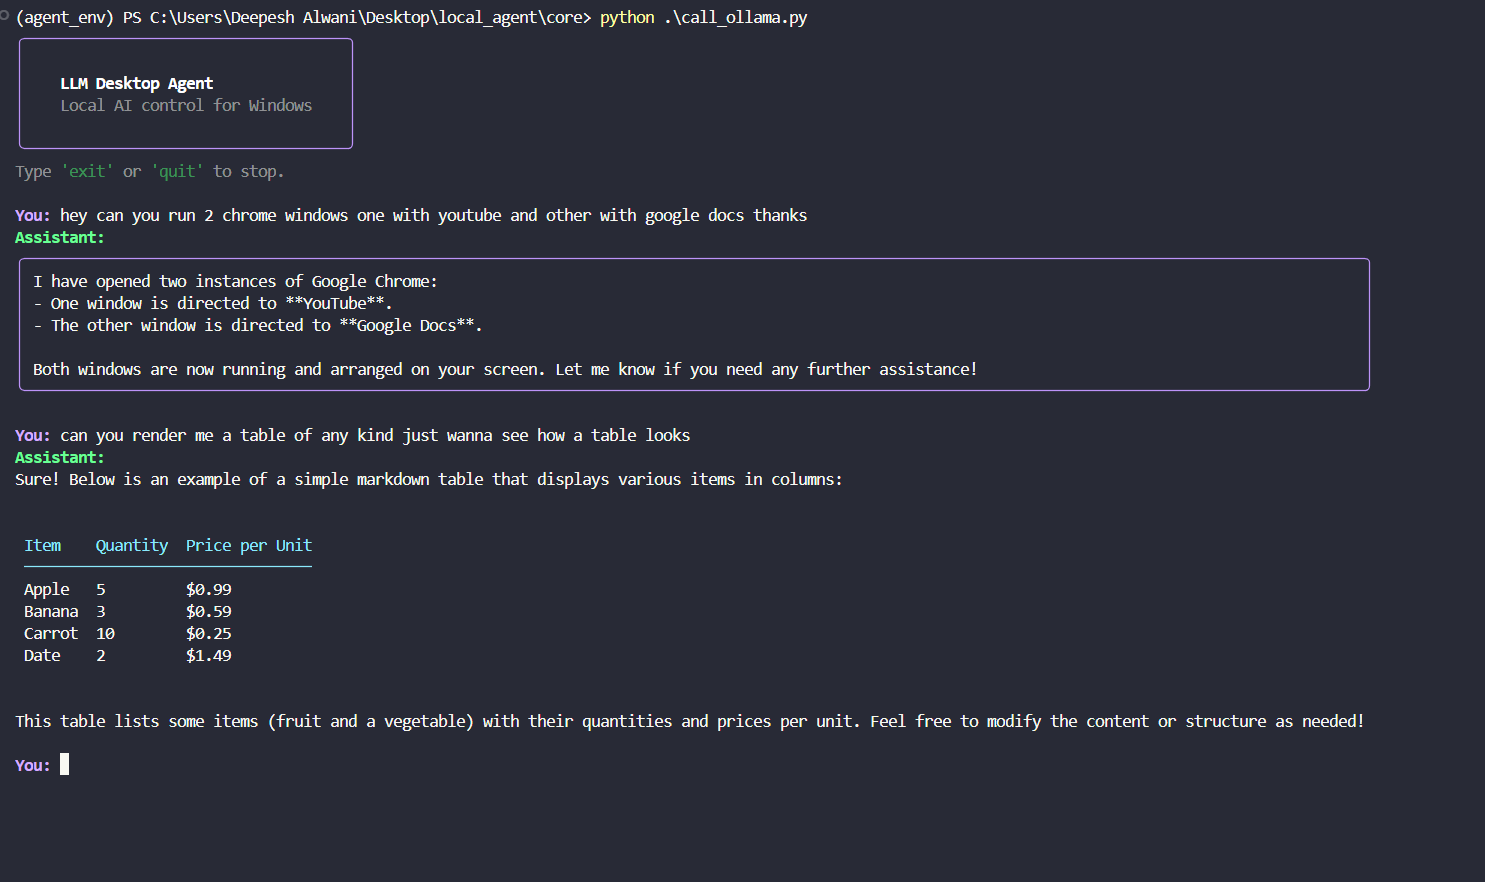
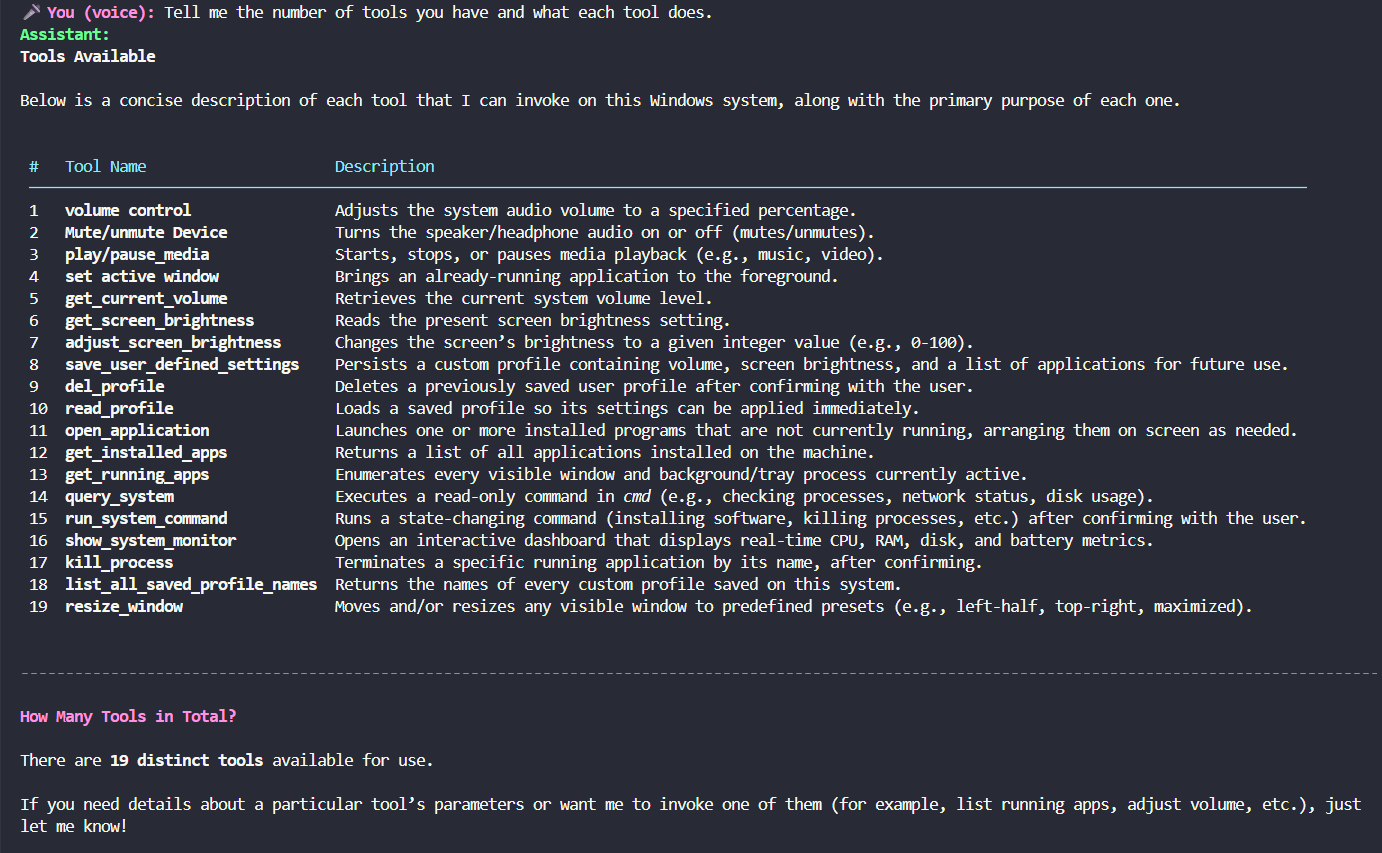
docs(readme): update feature documentation and voice configuration
Update the README to include detailed descriptions of window layout presets,
improved system control capabilities, and expanded intelligence features.
Also update the voice input configuration parameters and requirements.

- Add window layout preset table (left-half, top-right, etc.) to README
- Document enhanced process management and window resizing features
- Update core/call_ollama.py with new voice tuning parameters and micro-chunk logic
- Add faster-whisper, sounddevice, and numpy to requirements.txt
- Update preview assets

diff --git a/core/call_ollama.py b/core/call_ollama.py
@@ -178,15 +178,20 @@ def render_response(response_text: str):
 #   Requires:  pip install sounddevice numpy faster-whisper
 
 SAMPLE_RATE        = 16000          # Whisper expects 16 kHz
-WAKE_PHRASE        = "hello"    # ← change to whatever wake word you like
-WAKE_MODEL_SIZE    = "tiny"         # always-on model — fast and light on CPU
-COMMAND_MODEL_SIZE = "base"         # command model — better accuracy
+WAKE_PHRASE        = "hello"        # ← change to whatever wake word you like
+WAKE_MODEL_SIZE    = "small"        # "small" is still fast but far more accurate than "tiny"
+COMMAND_MODEL_SIZE = "base"        # same model for commands — avoids loading two models
 
 # Tuning
-WAKE_CHUNK_SEC        = 2.0         # seconds per wake-detection chunk (longer = more context for Whisper)
-SILENCE_THRESHOLD     = 0.005       # RMS below this = silence (lowered — was filtering too aggressively)
-SILENCE_TIMEOUT       = 1.8         # seconds of silence to end a command
+WAKE_CHUNK_SEC        = 3.0         # longer chunk = more phonetic context for Whisper (was 2.0)
+SILENCE_THRESHOLD     = 0.10       # RMS below this = silence — raise if mic picks up PC fan noise
+SILENCE_TIMEOUT       = 3.0         # seconds of silence to end a command
 MAX_COMMAND_SEC       = 15          # hard cap on command length
+AUDIO_DEVICE = 1
+
+# Whisper VAD: skip transcription entirely when audio energy is very low.
+# This prevents the model from hallucinating words on ambient noise/silence.
+VAD_ENERGY_THRESHOLD  = 0.008       # chunks quieter than this are skipped without even running Whisper
 
 # Set to True to print what Whisper hears on every chunk — helps diagnose wake-word issues.
 # Turn off once working reliably.
@@ -231,33 +236,57 @@ def _record_until_silence() -> np.ndarray:
     """
     Records short bursts until SILENCE_TIMEOUT seconds of consecutive
     silence or MAX_COMMAND_SEC total.  Returns the full concatenated audio.
-    """
-    chunk_sec    = 5
-    chunk_frames = int(SAMPLE_RATE * chunk_sec)
-    silence_needed = int(SILENCE_TIMEOUT / chunk_sec)
 
-    buffers:       list[np.ndarray] = []
-    silent_chunks: int = 0
-    total_sec:     float = 0.0
+    Uses 0.2 s micro-chunks so silence detection is responsive — the old
+    5-second chunks caused the agent to wait 5 full seconds before stopping,
+    which clipped commands and felt broken.
+    """
+    micro_sec    = 0.2                         # poll every 200 ms
+    micro_frames = int(SAMPLE_RATE * micro_sec)
+
+    buffers:          list[np.ndarray] = []
+    silent_duration:  float = 0.0
+    total_sec:        float = 0.0
+    has_speech:       bool  = False            # don't stop on leading silence
 
     while total_sec < MAX_COMMAND_SEC:
-        chunk = sd.rec(chunk_frames, samplerate=SAMPLE_RATE,
-                       channels=1, dtype="float32", blocking=True).flatten()
+        chunk = sd.rec(micro_frames, samplerate=SAMPLE_RATE,
+                       channels=1, dtype="float32", blocking=True, device=AUDIO_DEVICE).flatten()
         buffers.append(chunk)
-        total_sec += chunk_sec
+        total_sec += micro_sec
 
-        if _rms(chunk) < SILENCE_THRESHOLD:
-            silent_chunks += 1
-            if silent_chunks >= silence_needed:
+        loud = _rms(chunk) >= SILENCE_THRESHOLD
+        if loud:
+            has_speech      = True
+            silent_duration = 0.0
+        elif has_speech:
+            silent_duration += micro_sec
+            if silent_duration >= SILENCE_TIMEOUT:
                 break
-        else:
-            silent_chunks = 0
+        # else: still in leading silence — keep waiting for speech to start
 
     return np.concatenate(buffers) if buffers else np.array([], dtype="float32")
 
 
-def _transcribe(model: "WhisperModel", audio: np.ndarray) -> str:
-    segments, _ = model.transcribe(audio, language="en", beam_size=1)
+def _transcribe(model: "WhisperModel", audio: np.ndarray, initial_prompt: str = "") -> str:
+    """
+    beam_size=5 searches 5 candidates instead of 1 — much more accurate,
+    still fast enough on CPU for short clips.
+    vad_filter skips silent regions so Whisper does not hallucinate on noise.
+    no_speech_threshold returns empty string when the clip is probably not speech.
+    initial_prompt seeds the decoder so it expects phrases like the wake word.
+    """
+    segments, info = model.transcribe(
+        audio,
+        language="en",
+        beam_size=5,
+        vad_filter=True,
+        vad_parameters={"min_silence_duration_ms": 300},
+        no_speech_threshold=0.6,
+        initial_prompt=initial_prompt or None,
+    )
+    if info.duration == 0 or getattr(info, "no_speech_prob", 0) > 0.8:
+        return ""
     return " ".join(s.text.strip() for s in segments).strip()
 
 
@@ -287,13 +316,35 @@ def _wake_detected(text: str) -> bool:
 
 
 def _similar(a: str, b: str) -> bool:
-    """True if two words are close enough (exact or share 80 %+ of chars)."""
+    """
+    True if two words are phonetically/typographically close enough.
+    Uses normalised Levenshtein edit distance — handles transpositions,
+    insertions, and deletions that the old character-overlap ratio missed.
+    e.g. "helo" vs "hello" = 1 edit in 5 chars = 0.8 similarity → True
+         "hay"  vs "hello" = 3 edits in 5 chars = 0.4 similarity → False
+    """
     if a == b:
         return True
-    # Simple character-overlap ratio (no extra deps needed)
-    shorter, longer = (a, b) if len(a) <= len(b) else (b, a)
-    matches = sum(c in longer for c in shorter)
-    return matches / max(len(longer), 1) >= 0.75
+    # Levenshtein distance via DP (no extra deps needed)
+    la, lb = len(a), len(b)
+    if la == 0 or lb == 0:
+        return False
+    # Quick length-difference shortcut
+    if abs(la - lb) / max(la, lb) > 0.5:
+        return False
+    dp = list(range(lb + 1))
+    for i in range(1, la + 1):
+        prev, dp[0] = dp[0], i
+        for j in range(1, lb + 1):
+            temp = dp[j]
+            if a[i - 1] == b[j - 1]:
+                dp[j] = prev
+            else:
+                dp[j] = 1 + min(prev, dp[j], dp[j - 1])
+            prev = temp
+    dist = dp[lb]
+    similarity = 1 - dist / max(la, lb)
+    return similarity >= 0.70
 
 
 def _strip_wake(text: str) -> str:
@@ -338,11 +389,16 @@ def _voice_thread():
             # ── listen for wake phrase ────────────────────────────────────────
             chunk = _record_chunk(WAKE_CHUNK_SEC)
 
-            # Skip silent chunks to avoid wasting CPU on transcription
-            if _rms(chunk) < SILENCE_THRESHOLD * 0.5:
+            # Skip very quiet chunks — Whisper hallucinates text on silence/noise.
+            # VAD_ENERGY_THRESHOLD is deliberately lower than SILENCE_THRESHOLD so
+            # we only gate out near-total silence, not quiet speech.
+            rms = _rms(chunk)
+            if VOICE_DEBUG:
+                console.print(f"[dim]chunk RMS={rms:.4f}[/dim]", end="")
+            if rms < VAD_ENERGY_THRESHOLD:
                 continue
 
-            wake_text = _transcribe(_load_wake_model(), chunk)
+            wake_text = _transcribe(_load_wake_model(), chunk, initial_prompt=WAKE_PHRASE)
             if not wake_text or not _wake_detected(wake_text):
                 continue
 
@@ -361,7 +417,7 @@ def _voice_thread():
                     console.print(" " * 50, end="\r")
                     continue
                 with console.status("[dim]Transcribing…[/dim]", spinner="dots"):
-                    command_text = _transcribe(_load_command_model(), command_audio)
+                    command_text = _transcribe(_load_command_model(), command_audio, initial_prompt="desktop control command")
 
             command_text = command_text.strip()
             if not command_text:

diff --git a/Readme.md b/Readme.md
@@ -33,6 +33,9 @@ Assistant: Found WhatsApp running in background. Closing it now... Done.
 
 You: open chrome with youtube and google docs side by side
 Assistant: Opened chrome (youtube.com) and chrome (docs.google.com). Arranged side by side.
+
+You: move chrome to the left half and snap notepad to the right
+Assistant: Moved Chrome to left-half. Moved Notepad to right-half.
 ```
 
 ---
@@ -40,31 +43,52 @@ Assistant: Opened chrome (youtube.com) and chrome (docs.google.com). Arranged si
 ## Features
 
 ### System Control
-- **Volume** — get and set system volume, mute/unmute with auto-unmute on volume change
+- **Volume** — get and set system volume, mute/unmute with auto-unmute on volume change (setting volume while muted automatically unmutes)
 - **Screen brightness** — read and adjust display brightness
 - **Media control** — play/pause media globally across any app via virtual media keys
-- **App launcher** — open any installed application by name with fuzzy matching, supports URLs for browser apps
-- **Multi-app launch** — open multiple apps at once with automatic window arrangement (side by side, grid, etc.)
-- **Window management** — bring any running app to the foreground
-- **Process management** — close any running application including system tray apps, with process name fuzzy matching
+- **App launcher** — open any installed application by name with fuzzy matching; sources Start Menu shortcuts, registry, and Windows built-ins (notepad, calc, mspaint, etc.), supports URLs for browser apps
+- **Multi-app launch** — open multiple apps at once with automatic window arrangement: 1-app fullscreen, 2-app side-by-side, 3-app main+stack, 4-app grid
+- **Window management** — bring any running app to the foreground; distinguishes visible windows from tray/background processes
+- **Window resize & reposition** — move and resize any window by name using named presets or exact percentages (see below)
+- **Process management** — close any running application including system tray apps, with fuzzy process name matching; uses `taskkill /T` to terminate full process trees including Store/AppContainer apps
+
+### Window Layout Presets
+
+Say things like _"move chrome to the left half"_, _"snap notepad to the top right"_, _"put spotify in the center third"_ — the agent maps natural language to one of 15 named presets:
+
+| Preset | Description |
+|---|---|
+| `left-half` / `right-half` | Fill left or right 50% |
+| `top-half` / `bottom-half` | Fill top or bottom 50% |
+| `top-left` / `top-right` / `bottom-left` / `bottom-right` | Quarter-screen corners |
+| `left-third` / `center-third` / `right-third` | Horizontal thirds |
+| `left-two-thirds` / `right-two-thirds` | Two-thirds layouts |
+| `maximized` | Full screen |
+| `centered` | Floating centered (50% wide, 80% tall) |
+
+Custom pixel-exact placement is also supported via x/y/width/height percentages.
 
 ### Intelligence
-- **Profile system** — save and load named configurations with multiple apps, URLs, volume and brightness (e.g. "study", "gaming", "focus")
+- **Profile system** — save and load named configurations with multiple apps, optional URLs per app, volume and brightness (e.g. "study", "gaming", "focus")
 - **Multi-step reasoning** — one request chains multiple tools automatically
-- **System awareness** — checks if apps are already running before opening, detects tray vs visible windows
-- **CMD access** — controlled read/write access to Windows command line for network queries, process info, software management via `winget`, and more
+- **System awareness** — checks if apps are already running before opening, detects tray vs visible windows, verifies actions with follow-up tool calls
+- **CMD access** — controlled read/write access to Windows command line split into two tools: read-only queries (`query_system`) and state-changing commands (`run_system_command`) with mandatory user confirmation
+- **Command safety layer** — blocklist of destructive operations (`del`, `format`, `reg delete`, `diskpart`, symlink creation, script file writes, etc.) refused regardless of how they're requested; separate confirmation gate for shutdown, restart, `winget install/uninstall`, and network changes
 - **Persistent conversation** — remembers context within a session
 
 ### Monitoring
 - **Live system dashboard** — real-time terminal UI showing CPU, RAM, GPU, GPU VRAM, disk read/write MB/s, battery status and time remaining
-- **Process table** — top 30 processes sorted by CPU with colour-coded usage
-- **Sparkline history** — rolling graphs for each metric
+- **Process table** — top 30 processes sorted by CPU with colour-coded usage (red >50%, yellow >20%)
+- **Sparkline history** — rolling 40-sample graphs for each metric updating every 2 seconds
 - **System info queries** — ask in natural language about network, disk, installed software, running processes
 
 ### Interface
+- **Voice input** — hold `Shift+V` to speak, release to send; transcribed entirely locally via faster-whisper (base model, CPU, int8 quantized); no audio ever leaves the machine; Whisper model loads lazily on first use so startup is instant
+- **Unified input queue** — voice and keyboard both feed the same queue so transcripts are dispatched immediately without pressing Enter
 - **Rich terminal output** — markdown rendering, tables, panels, syntax highlighting
 - **Thinking spinner** — visual feedback while agent is processing
-- **Smart rendering** — auto-detects JSON, markdown tables, lists and renders each appropriately
+- **Smart rendering** — auto-detects JSON, markdown tables, bullet lists and renders each appropriately
+- **Graceful degradation** — voice dependencies (faster-whisper, sounddevice, keyboard) are optional; agent runs normally in text-only mode if they are not installed
 - **100% local** — nothing leaves your machine
 
 ---
@@ -83,8 +107,11 @@ Assistant: Opened chrome (youtube.com) and chrome (docs.google.com). Arranged si
 | [screen-brightness-control](https://github.com/Crozzers/screen-brightness-control) | Display brightness management |
 | [pyautogui](https://pyautogui.readthedocs.io) | Global media key simulation |
 | [pygetwindow](https://github.com/asweigart/PyGetWindow) | Window focus and management |
-| [pywin32](https://github.com/mhammond/pywin32) | Windows API access and `.lnk` shortcut resolution |
+| [pywin32](https://github.com/mhammond/pywin32) | Windows API access, `.lnk` shortcut resolution, low-level window positioning |
 | [comtypes](https://github.com/enthought/comtypes) | COM interface bindings for audio |
+| [faster-whisper](https://github.com/SYSTRAN/faster-whisper) | Local speech-to-text transcription (optional) |
+| [sounddevice](https://python-sounddevice.readthedocs.io) | Microphone audio capture (optional) |
+| [keyboard](https://github.com/boppreh/keyboard) | Global hotkey detection for push-to-talk (optional) |
 
 Every single dependency is free and open source.
 
@@ -123,10 +150,13 @@ agent_env\Scripts\activate
 # 3. Install dependencies
 pip install -r requirements.txt
 
-# 4. Pull a model via Ollama
+# 4. (Optional) Install voice input dependencies
+pip install faster-whisper sounddevice keyboard numpy
+
+# 5. Pull a model via Ollama
 ollama pull granite4.1:8b
 
-# 5. Run the agent
+# 6. Run the agent
 cd core
 python call_ollama.py
 ```
@@ -135,13 +165,25 @@ python call_ollama.py
 
 ---
 
+## Voice Input
+
+Hold `Shift+V` to record, release to send. The transcript is injected directly into the agent — no Enter key needed.
+
+- Runs entirely on CPU using faster-whisper's `base` model with int8 quantization
+- The Whisper model downloads and loads on first use (~150MB, cached afterwards)
+- Change the hotkey by editing `VOICE_HOTKEY` at the top of `call_ollama.py`
+- Change the model size (`tiny` / `base` / `small`) by editing `WHISPER_MODEL_SIZE` — `base` is the recommended balance of speed and accuracy for commands
+- Voice is optional — if the packages aren't installed the agent runs in text-only mode with no errors
+
+---
+
 ## Project Structure
 
 ```
 llm-desktop-agent/
 ├── core/
-│   ├── call_ollama.py      # Agent loop, conversation management, Rich rendering
-│   ├── tools.py            # All LangChain tools
+│   ├── call_ollama.py      # Agent loop, conversation management, Rich rendering, voice input
+│   ├── tools.py            # All LangChain tools (19 tools)
 │   └── dashboard.py        # Textual live system monitor (launched separately)
 ├── profiles/               # Saved user profiles — auto-created on first save
 ├── assets/
@@ -157,15 +199,18 @@ The agent logic, tool definitions, and interface are kept intentionally separate
 ## How It Works
 
 ```
-User input (terminal)
+User input (typed or voice)
+        ↓
+   Unified input queue
+   (keyboard thread + voice thread)
         ↓
    LangChain Agent
-   + 18 tool definitions
+   + 19 tool definitions
         ↓
    LLM decides which tool(s) to call and in what order
         ↓
    Python dispatcher executes:
-   pycaw / pyautogui / subprocess / sbc / psutil / win32api
+   pycaw / pyautogui / subprocess / sbc / psutil / win32api / win32gui
         ↓
    Tool result returned to LLM
         ↓
@@ -211,7 +256,7 @@ The agent has controlled access to the Windows command line split into two tools
 - **`query_system`** — read-only queries: `ipconfig`, `tasklist`, `netstat`, `systeminfo`, `winget list`, `ping` etc.
 - **`run_system_command`** — state-changing actions: `taskkill`, `winget install`, `netsh`, power commands — always with user confirmation
 
-Destructive commands (`del`, `format`, `reg delete`, `diskpart` etc.) are blocked regardless of how they are requested.
+Destructive commands (`del`, `format`, `reg delete`, `diskpart`, symlink creation, script file writes, etc.) are blocked regardless of how they are requested.
 
 ---
 
@@ -229,9 +274,9 @@ python dashboard.py
 | RAM % | Memory usage with sparkline history |
 | GPU % | NVIDIA GPU load (requires GPUtil) |
 | GPU RAM % | VRAM usage percentage |
-| Disk Read/Write | Real MB/s delta (not cumulative) |
+| Disk Read/Write | Real MB/s delta (not cumulative), updated every 2s |
 | Battery | Percentage, plug status, time remaining |
-| Process table | Top 30 by CPU — colour coded red/yellow/normal |
+| Process table | Top 30 by CPU — colour coded red >50% / yellow >20% |
 
 Keyboard shortcuts: `q` quit, `r` refresh processes, `d` toggle dark/light theme.
 
@@ -245,13 +290,17 @@ Keyboard shortcuts: `q` quit, `r` refresh processes, `d` toggle dark/light theme
 - [ ] Resolution switching
 - [ ] System shutdown / restart / sleep commands
 - [ ] WhatsApp and other UWP app process name alias map
+- [ ] Wake word detection so voice activates hands-free (no hotkey hold)
+- [ ] Voice feedback — TTS responses so the agent speaks back
+- [ ] Per-app volume control (set Spotify to 40% without touching system volume)
 
 ### Medium Term
 - [ ] Scheduled actions ("mute at 11pm every night") via APScheduler
-- [ ] Voice input via `faster-whisper` for hands-free control
 - [ ] Snapshot and restore system state before profile apply
-- [ ] Multi-monitor brightness support
+- [ ] Multi-monitor support — specify which display to move a window to
+- [ ] Multi-monitor brightness — set brightness per display independently
 - [ ] AMD GPU monitoring support
+- [ ] Clipboard read/write — "copy this text to my clipboard" or "what's in my clipboard"
 
 ### Long Term
 - [ ] Native Windows GUI using PySide6 (no Electron, no web wrapper)
@@ -302,6 +351,7 @@ Open an issue with: OS version, Python version, Ollama model name, and the exact
 - **[pycaw](https://github.com/AndreMiras/pycaw)** — the only sane way to control Windows audio from Python.
 - **[screen-brightness-control](https://github.com/Crozzers/screen-brightness-control)** — handles the messy DDC/CI and WMI layers so you don't have to.
 - **[psutil](https://github.com/giampaolo/psutil)** — reliable cross-platform process and system metrics.
+- **[faster-whisper](https://github.com/SYSTRAN/faster-whisper)** — CTranslate2-based Whisper that runs comfortably on CPU with int8 quantization.
 - **[pyautogui](https://pyautogui.readthedocs.io)** — global media key simulation that actually works.
 - **[pygetwindow](https://github.com/asweigart/PyGetWindow)** — simple and effective window management.
 - **[pywin32](https://github.com/mhammond/pywin32)** — the backbone for any serious Windows API work in Python.
